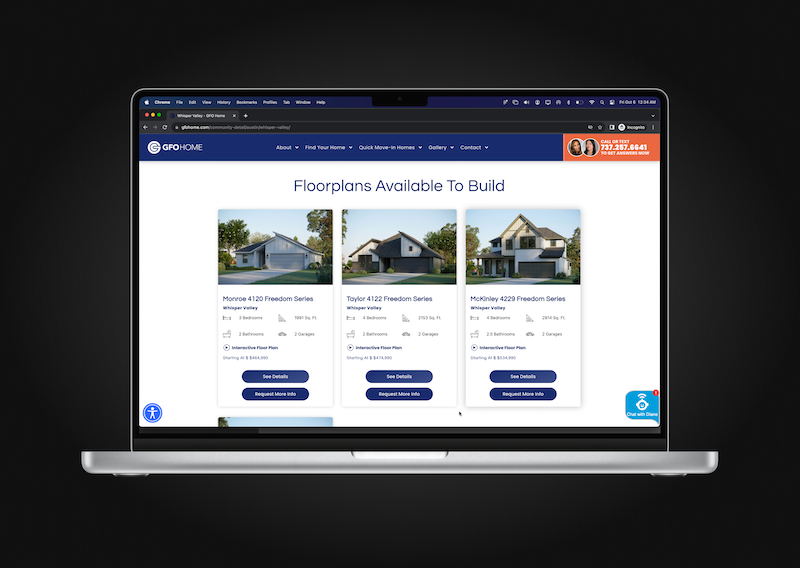
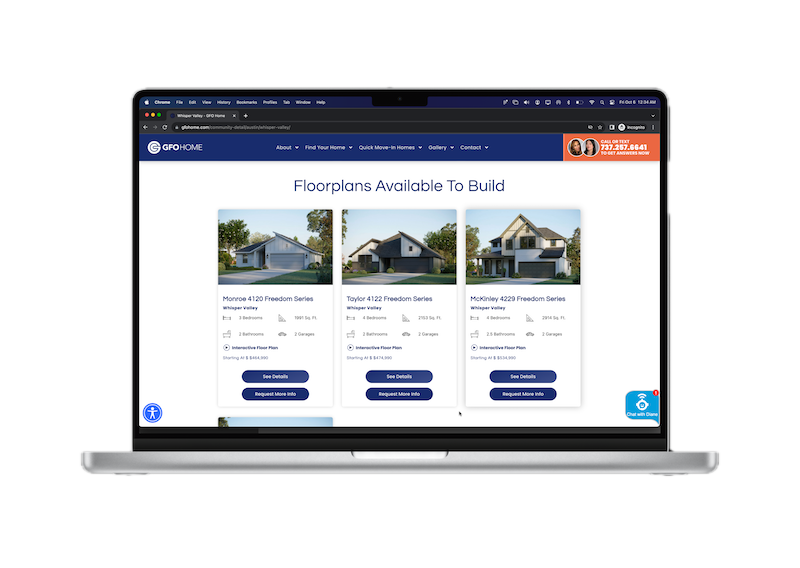
transparent project images

diff --git a/src/content/work/gifted-root.md b/src/content/work/gifted-root.md
@@ -1,7 +1,7 @@
 ---
 title: 🫒 Shopify eComm Dev
 publishDate: 2024-01-01 00:00:00
-img: /assets/gifted.jpg
+img: /assets/gifted.png
 img_alt: An overview of the Gifted Root Shopify site showcasing its responsive design and custom user interface elements.
 description: A deep dive into the development process of the Gifted Root Shopify site, focusing on the integration of Liquid and CSS for custom themes, dynamic content rendering, and a seamless user experience. This case study also explores the strategic approach to branding, design, business modeling, and marketing that contributed to surpassing the forecasted goals in the first month of launch.
 tags:

diff --git a/src/content/work/openai-imessage.md b/src/content/work/openai-imessage.md
@@ -1,7 +1,7 @@
 ---
 title: 💬 OpenAI iMessage App
 publishDate: 2024-03-30 00:00:00
-img: /assets/preview-imessage.jpg
+img: /assets/preview-imessage.png
 img_alt: A screenshot of the OpenAI iMessage App interface with a chat conversation.
 description: |
   This app, built with React, Node.js, and Axios, mimics Apple's iMessage UI and integrates OpenAI's GPT-3 for real-time messaging. It features advanced API integration and utilizes Retrieval Augmented Generation (RAG) to enhance chatbot accuracy and context-awareness, providing users with a seamless and intelligent messaging experience.

diff --git a/src/content/work/packing-list.md b/src/content/work/packing-list.md
@@ -1,7 +1,7 @@
 ---
 title: 🧳 Vue Packing List App
 publishDate: 2024-01-24 00:00:00
-img: /assets/vue-packing-list.jpg
+img: /assets/vue-packing-list.png
 img_alt: Vue.js application for creating a study abroad packing list.
 description: |
   An intuitive and user-friendly Vue.js application designed for students planning their study abroad. This app helps in organizing and managing packing lists, ensuring nothing essential is forgotten. Built with Vue.js, it offers a seamless and interactive experience, making packing for study abroad stress-free and efficient.

diff --git a/src/content/work/react-apple-news-clone.md b/src/content/work/react-apple-news-clone.md
@@ -1,7 +1,7 @@
 ---
 title:  Apple News Clone App
 publishDate: 2024-02-22 00:00:00
-img: /assets/apple-news-clone.jpg
+img: /assets/apple-news-clone.png
 img_alt: A screenshot of the Apple News Clone app showing a list of news articles.
 description: |
   A React-based news aggregation app cloning the Apple News interface, utilizing Vite for blazing-fast development and an external news API for fetching real-time news articles. Users can view top stories, load more articles dynamically, and read detailed news content by navigating to external sources.

diff --git a/src/content/work/ai-wedding-website.md b/src/content/work/ai-wedding-website.md
@@ -1,7 +1,7 @@
 ---
 title: 💍 AI Wedding Website
 publishDate: 2025-03-15 00:00:00
-img: /assets/wedding.jpg
+img: /assets/wedding.png
 img_alt: AI-powered wedding website interface showing chatbot and event details
 description: A revolutionary wedding planning platform powered by Python, RAG, and vector databases. Features an AI chatbot for instant guest support, smart search capabilities, and seamless event coordination.
 tags:

diff --git a/src/content/work/creation-energy.md b/src/content/work/creation-energy.md
@@ -1,7 +1,7 @@
 ---
 title: 🌍 Creation Energy
 publishDate: 2024-03-01 00:00:00
-img: /assets/creation-energy.jpg
+img: /assets/creation-energy.png
 img_alt: Behind-the-scenes look at the development of a renewable energy platform.
 description: Scalable WordPress website for energy startup seeking VC funding. My team and I started from brand and logo design, design system, low-res wireframes, Figma mocks, and development.
 tags:

diff --git a/src/content/work/nested/recruitment.md b/src/content/work/nested/recruitment.md
@@ -1,7 +1,7 @@
 ---
 title: 🛣 Recruitment Microsite
 publishDate: 2023-10 00:00:00
-img: /assets/recruitment.jpg
+img: /assets/recruitment.png
 img_alt: Pearls of silky soft white cotton, bubble up under vibrant lighting
 description: |
   We developed a gamified web app to help recruit workers for TXDOT.

diff --git a/src/content/work/landing-page.md b/src/content/work/landing-page.md
@@ -1,7 +1,7 @@
 ---
 title: 📈 Agency Landing Page
 publishDate: 2023-10-20 00:00:00
-img: /assets/agency-landing-page.jpg
+img: /assets/agency-landing-page.png
 img_alt: Iridescent ripples of a bright blue and pink liquid
 description: |
   Optimized landing page to drive leads to a digital marketing agency

diff --git a/src/content/work/led.md b/src/content/work/led.md
@@ -1,7 +1,7 @@
 ---
 title: 💡 LED Brand Site
 publishDate: 2023-10-10 00:00:00
-img: /assets/led.jpg
+img: /assets/led.png
 img_alt: Cannabis LED lighting manufacturer brand site.
 description: |
   Cannabis LED lighting manufacturer brand site.
